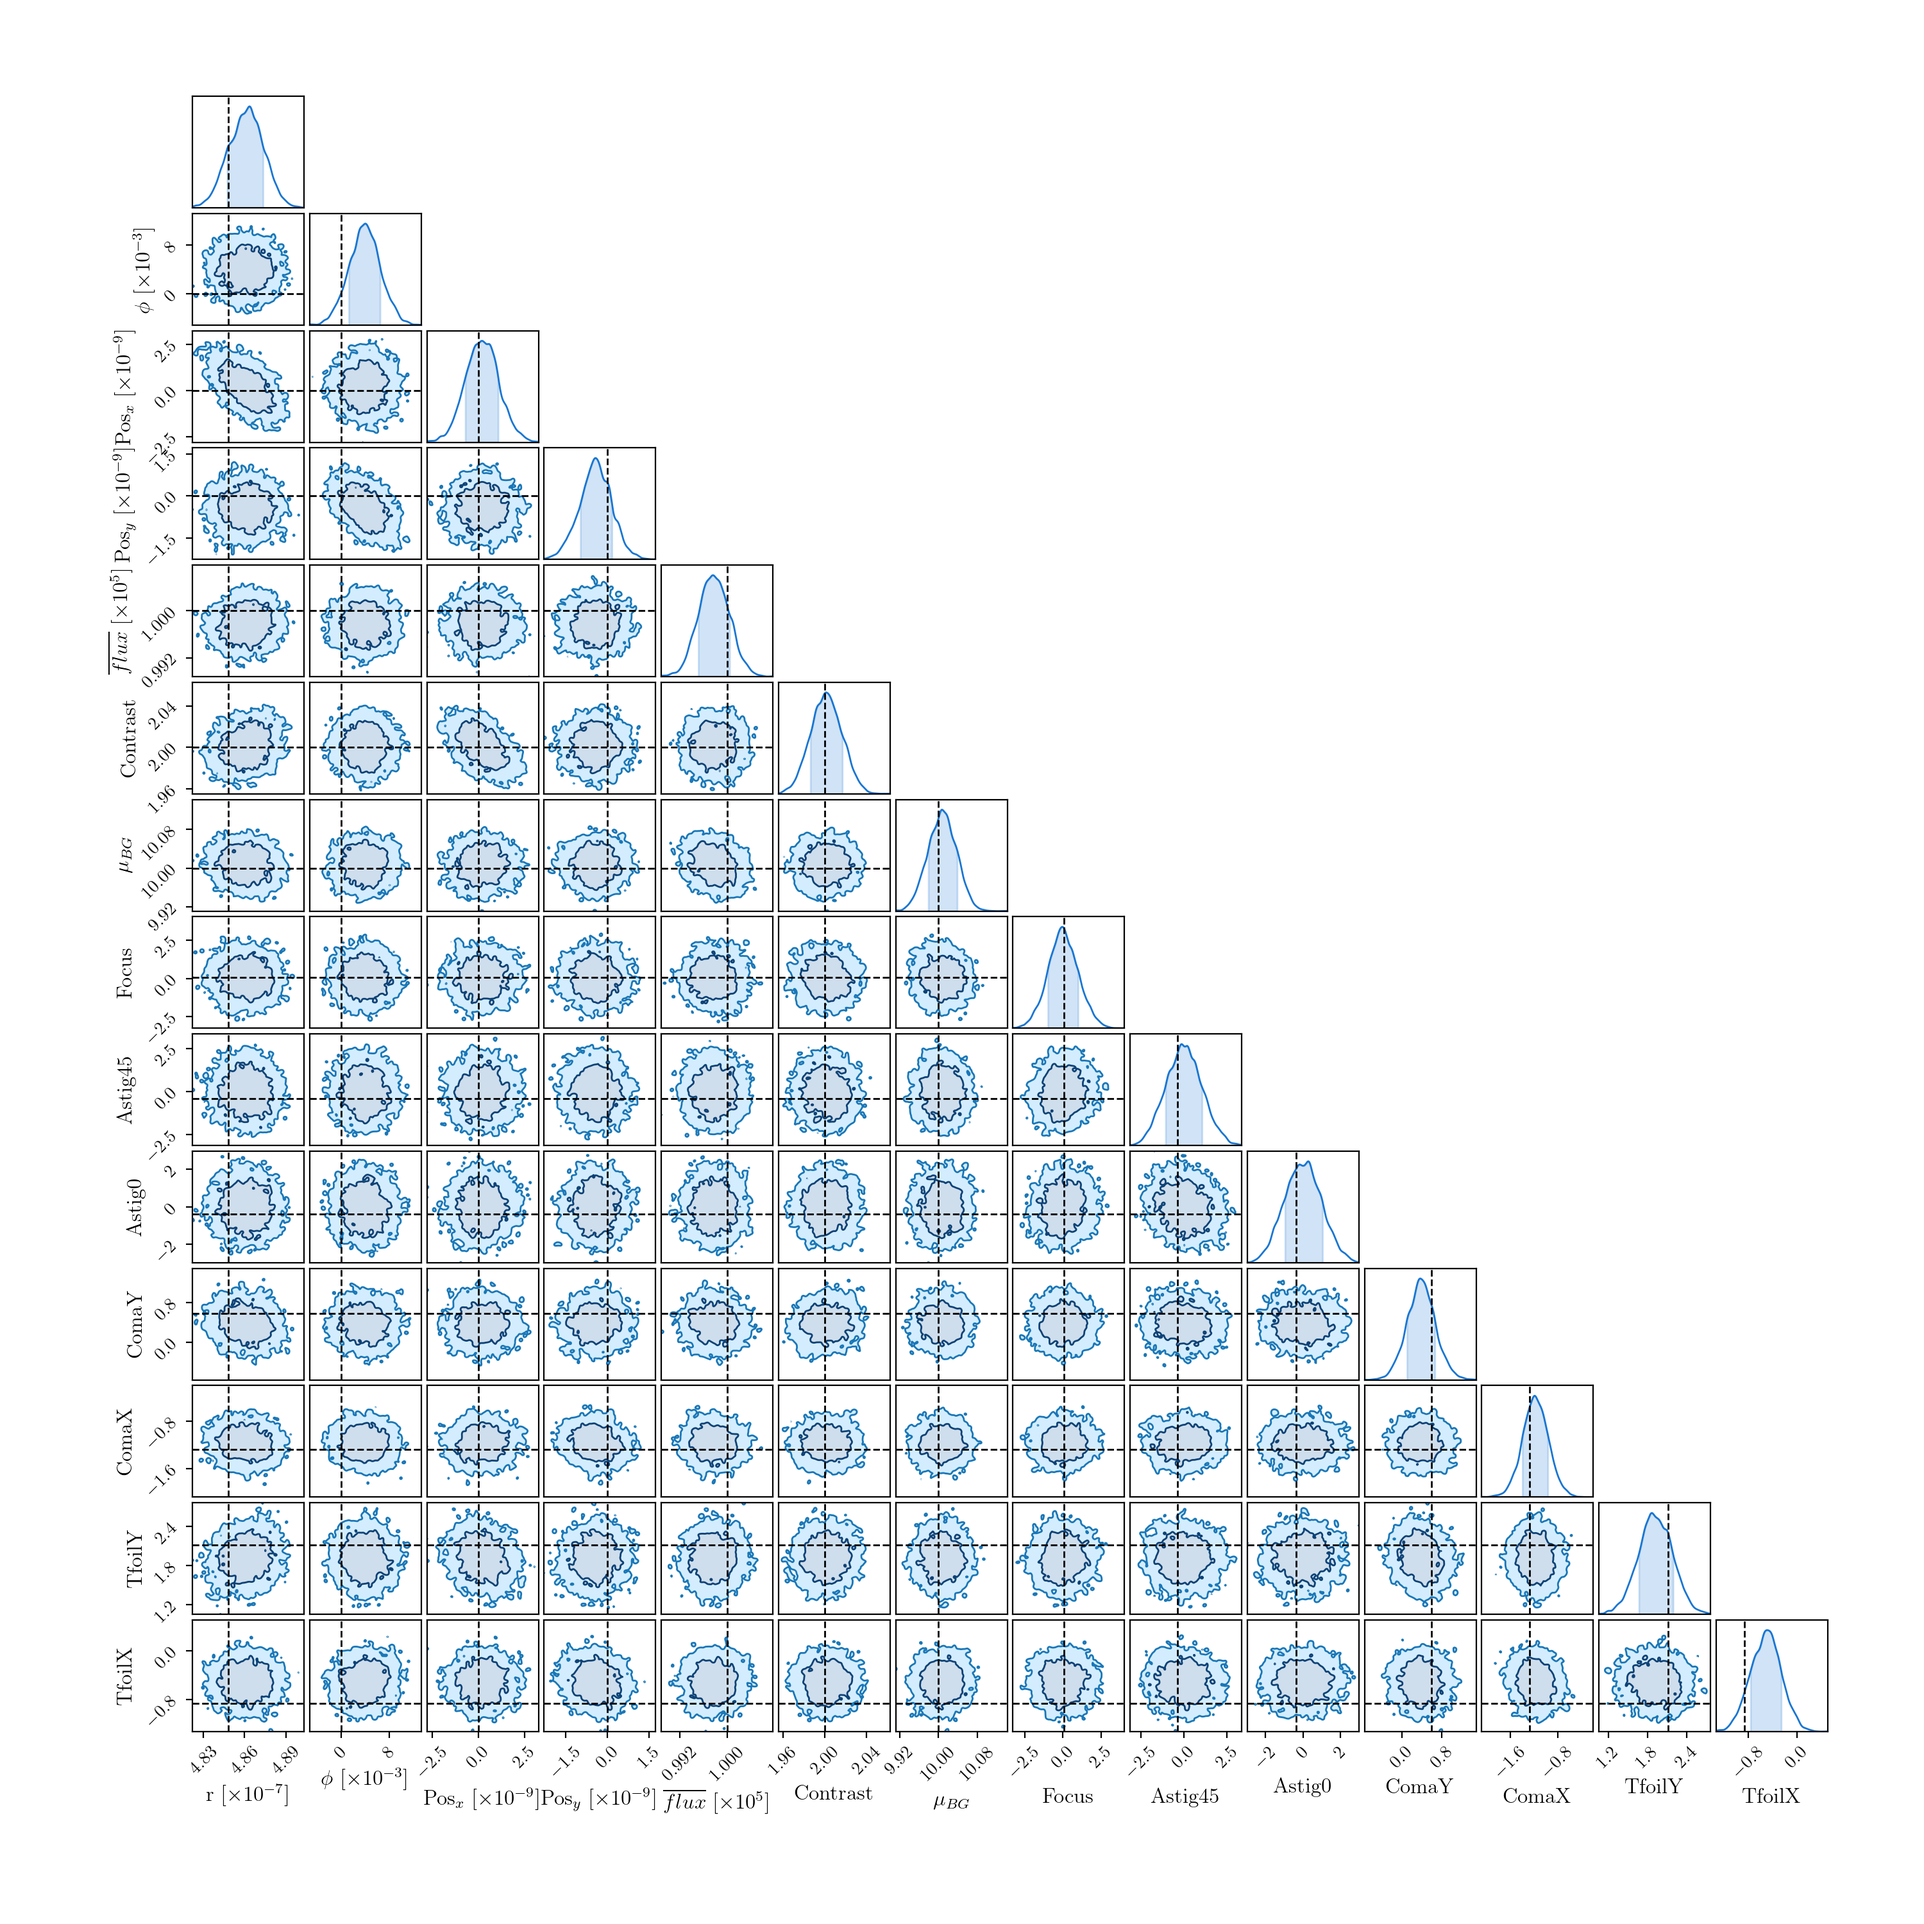
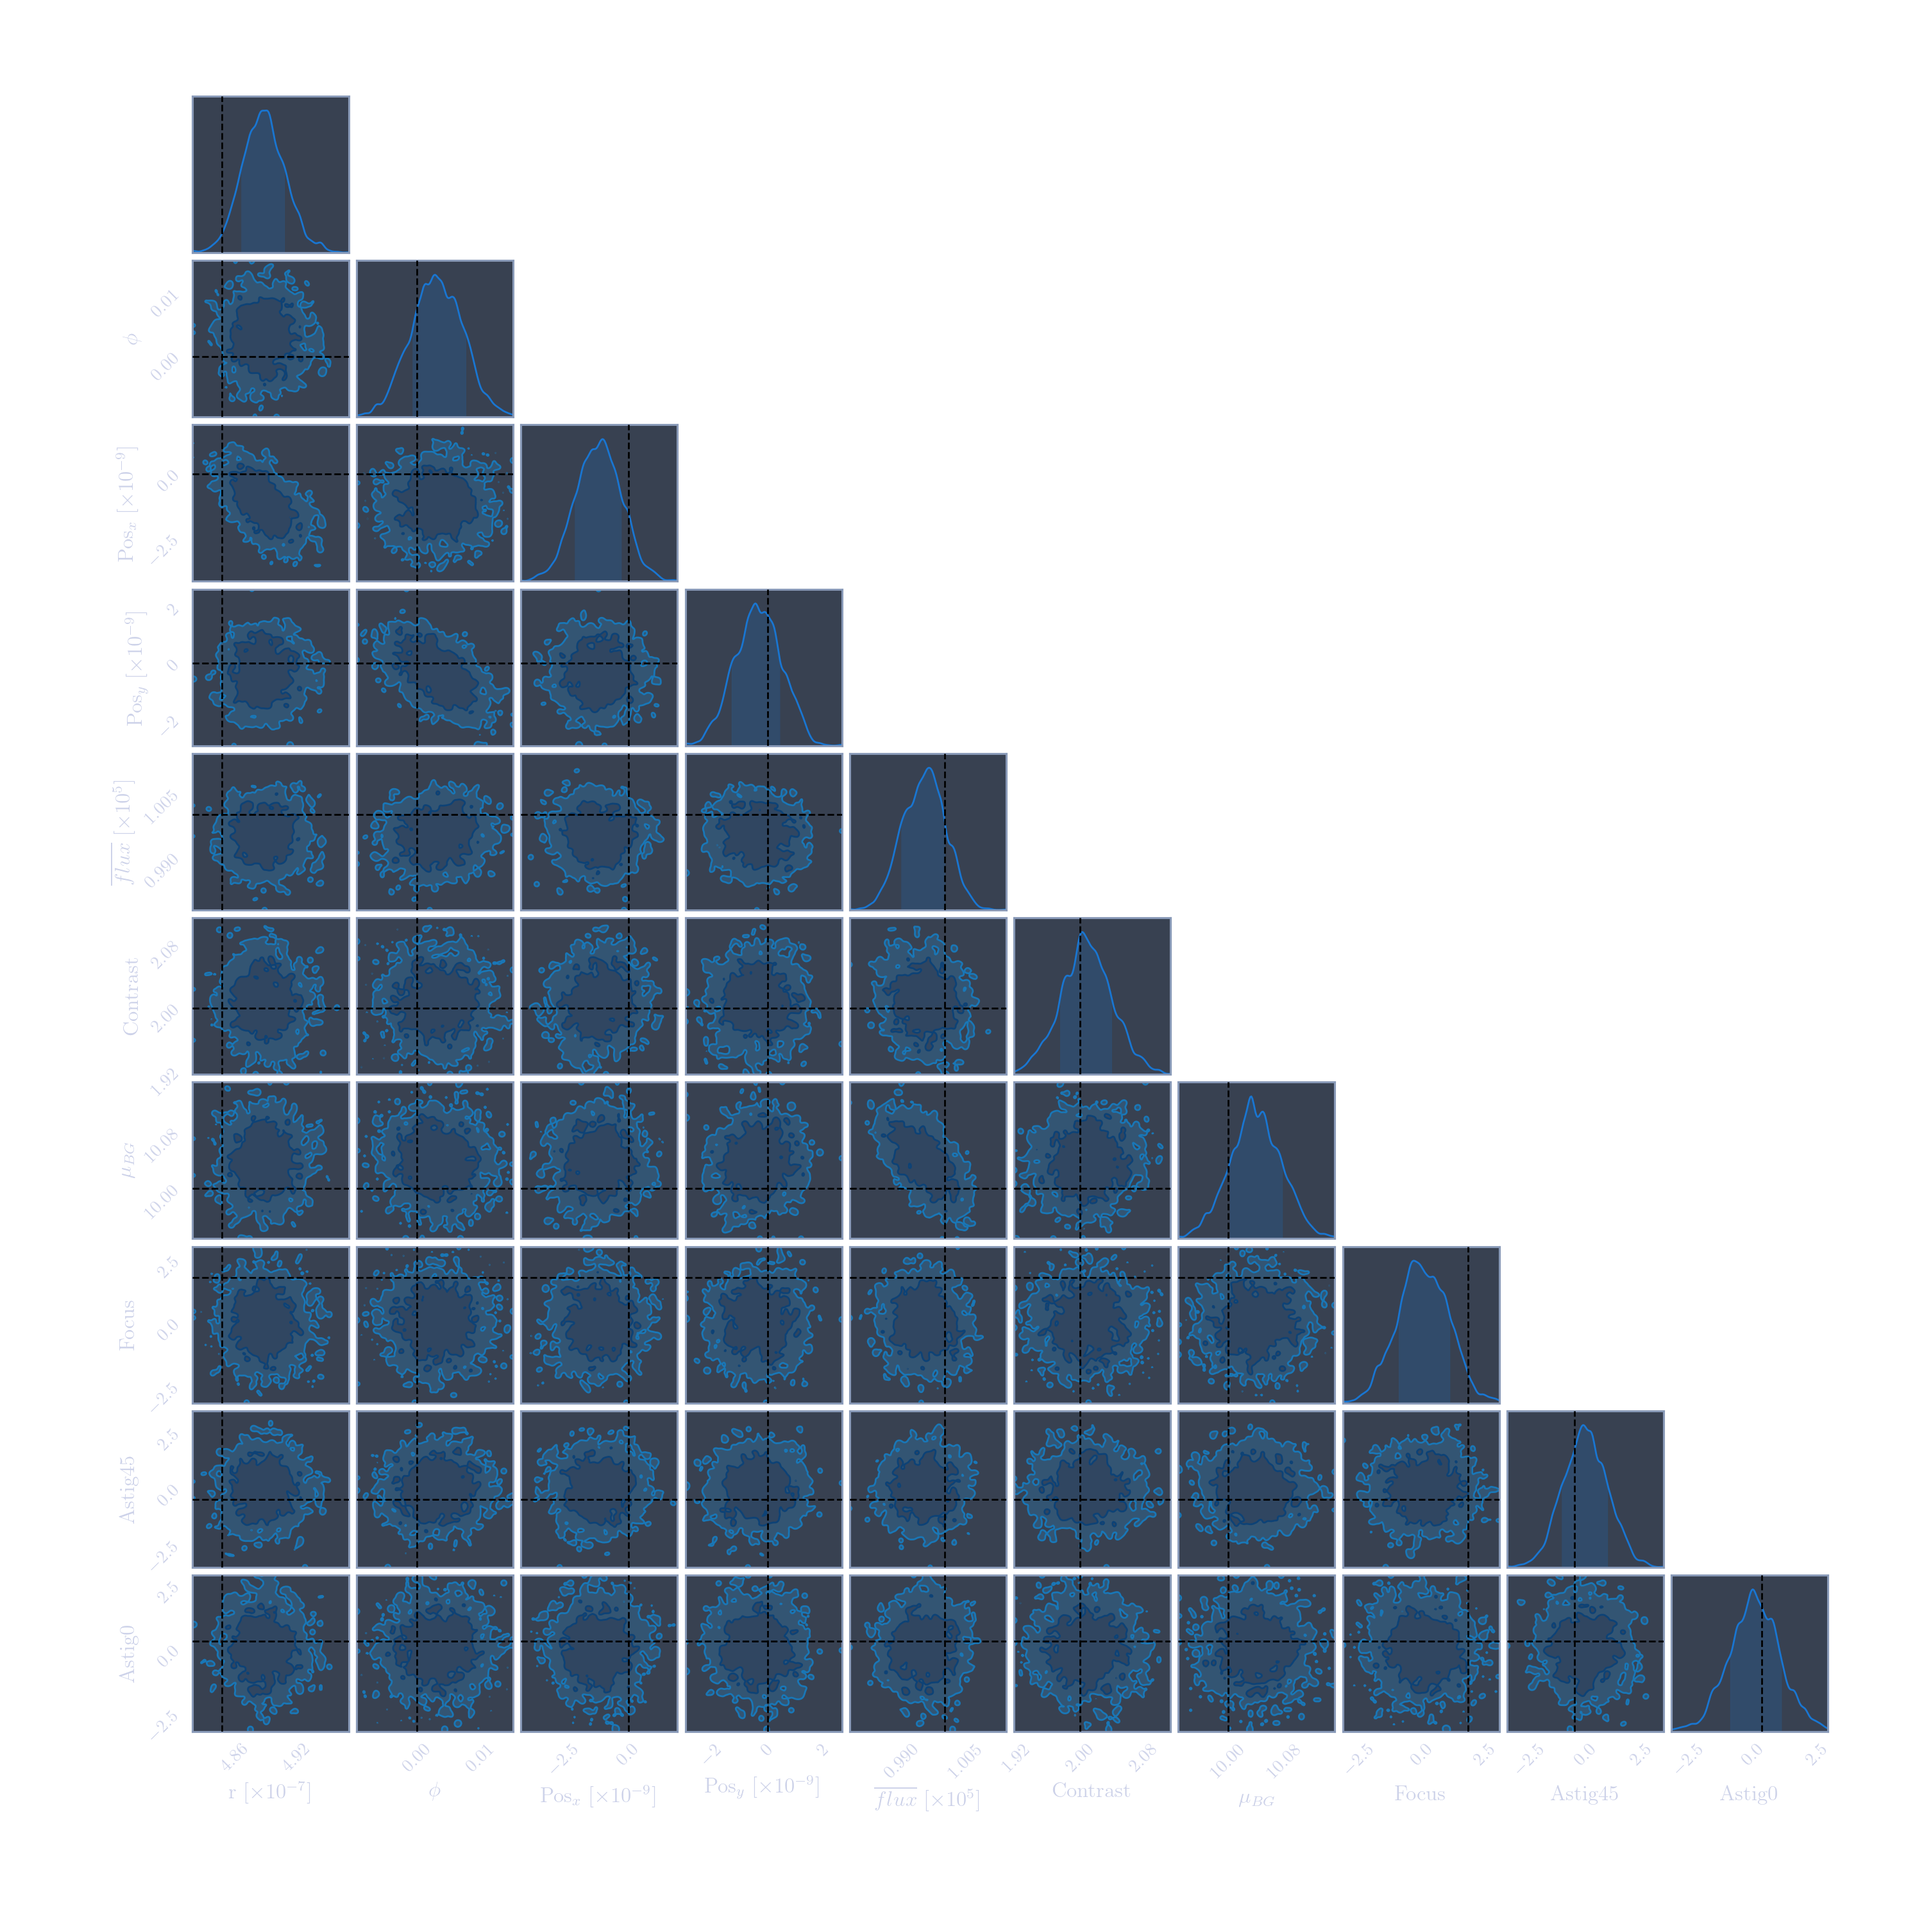
Small changes

diff --git a/hubble.py b/hubble.py
@@ -12,7 +12,7 @@ import matplotlib.pyplot as plt
 from jupyterthemes import jtplot
 from astropy.io import fits
 
-jtplot.style("oceans16")
+jtplot.style("oceans16", grid=False)
 warnings.filterwarnings("ignore")
 mpl.rcParams["figure.facecolor"] = 'w'
 mpl.rcParams["axes.facecolor"] = 'w'
@@ -153,6 +153,7 @@ class HubblePupil(dl.CompoundAperture):
                 softening = True)}
 
 
+# +
 with open("data/filters/HST_NICMOS1.F170M.dat") as filter_data:
     next(filter_data)
     nicmos_filter = np.array([
@@ -162,7 +163,7 @@ with open("data/filters/HST_NICMOS1.F170M.dat") as filter_data:
 nicmos_filter = nicmos_filter\
     .reshape(10, 80, 2)\
     .mean(axis=1)
-
+# -
 
 basis = dl.utils.zernike_basis(5, 128, outside=0.)
 target_coeffs = 1e-7 * jax.random.normal(jax.random.PRNGKey(0), [len(basis)])
@@ -212,8 +213,10 @@ path_dict = {'zern': ['layers', -2, 'coeffs'],
              'positions': ['positions'],
              'fluxes': ['fluxes']}
 paths = ['zern', 'x_offset', 'y_offset', 'positions', 'fluxes']
+# -
 
 filter_spec = hubble.get_filter_spec(paths, path_dict=path_dict)
+
 
 @eqx.filter_jit
 @eqx.filter_value_and_grad(arg=filter_spec)
@@ -221,8 +224,10 @@ def loss_func(model, target_psf):
     out = model.propagate()
     return np.sum((target_psf - out) ** 2)
 
+
 loss, grads = loss_func(hubble, target_psf)
 
+# +
 # Learning rates 
 # offset: 1e-3
 groups = [['x_offset', 'y_offset'], 'zern', 'positions', 'fluxes']
@@ -232,22 +237,23 @@ opt_state = optim.init(hubble)
 
 errors, grads_out, models_out = [], [], []
 
-with tqdm.tqdm(range(200), desc='Gradient Descent') as t:
-    for i in t: 
-        loss, grads = loss_func(hubble, target_psf)
-        updates, opt_state = optim.update(grads, opt_state)
+# +
+# with tqdm.tqdm(range(200), desc='Gradient Descent') as t:
+#     for i in t: 
+#         loss, grads = loss_func(hubble, target_psf)
+#         updates, opt_state = optim.update(grads, opt_state)
         
-        current_values = hubble.get_leaves(paths, path_dict=path_dict)
-        updated_values = updates.get_leaves(paths, path_dict=path_dict)
-        new_values = [current_values[i] + updated_values[i] \
-                      for i in range(len(current_values))]
-        hubble = hubble.update_leaves(paths, new_values, path_dict=path_dict)
+#         current_values = hubble.get_leaves(paths, path_dict=path_dict)
+#         updated_values = updates.get_leaves(paths, path_dict=path_dict)
+#         new_values = [current_values[i] + updated_values[i] \
+#                       for i in range(len(current_values))]
+#         hubble = hubble.update_leaves(paths, new_values, path_dict=path_dict)
         
-        models_out.append(hubble)
-        errors.append(loss)
-        grads_out.append(grads)
+#         models_out.append(hubble)
+#         errors.append(loss)
+#         grads_out.append(grads)
 
-        t.set_description("Loss: {:.3f}".format(loss*1e-3)) #
+#         t.set_description("Loss: {:.3f}".format(loss*1e-3)) #
 # -
 
 coordinates = dl.utils.get_pixel_coordinates(128, 2.4 / 128, 0., 0.)
@@ -367,26 +373,47 @@ spectrum = np.tile(nicmos_filter, (2, 1, 1)).at[:, :, 1].set(1.)
 wavelengths = spectrum[:, :, 0]
 weights = spectrum[:, :, 1]
 
-specturm = dl.CombinedSpectrum(wavelengths, weights)
+spectrum = dl.CombinedSpectrum(wavelengths, weights)
+
+differences = target_positions[:, 0] - target_positions[:, 1]
 
 position = np.mean(target_positions, axis=0)
-separation = np.sqrt(np.sum((target_positions[:, 0] - target_positions[:, 1]) ** 2))
+separation = np.sqrt(np.sum((differences) ** 2))
 field_angle = np.arctan2(differences[1], differences[0])
 flux_ratio = target_fluxes[0] / target_fluxes[1]
 flux = target_fluxes.sum()
 
-target = dl.BinarySource(position, flux, separation, field_angle, flux_ratio, spectrum, [True, True])
+target = dl.BinarySource(position, flux, separation, field_angle, flux_ratio, spectrum, [False, False])
 
-hubble_telescope = dl.Telescope
+true_position = np.zeros(2)
+true_separation, true_field_angle = dl.utils.arcsec2rad(1e-1), 0
+true_flux, true_flux_ratio = 1e5, 2
+resolved = [False, False]
+binary_source = dl.BinarySource(true_position, true_flux, true_separation, 
+                             true_field_angle, true_flux_ratio, 
+                             spectrum, resolved, name="Binary")
 
-help(dl.Optics)
+hubble_layers = [
+    dl.CreateWavefront(128, 2.4, wavefront_type='Angular'),
+    dl.TiltWavefront(),
+    dl.CompoundAperture({"Hubble": HubblePupil(), "Nicmos": NicmosColdMask(0., 0.)}),
+    dl.NormaliseWavefront(),
+    dl.ApplyBasisOPD(basis, target_coeffs),
+    dl.AngularMFT(dl.utils.arcsec2rad(0.043), 64)
+]
 
-help(dl.Detector)
+detector_layers = [
+    dl.AddConstant(10.),
+    dl.ApplyPixelResponse(0.000005 * jax.random.normal(jax.random.PRNGKey(0), (64, 64)))
+]
 
-help(dl.Telescope)
+hubble_telescope = dl.Telescope(
+    dl.Optics(hubble_layers),
+    dl.Scene([target]),
+#    dl.Detector(detector_layers),
+#    filter=dl.Filter(nicmos_filter[:, 0], nicmos_filter[:, 1])
+)
 
-dl.Filter(nicmos_filter[:, 0], nicmos_filter[:, 1])
-
-help(dl.Filter)
+plt.imshow(hubble_telescope.model_image()[2])
 
 

diff --git a/hmc.py b/hmc.py
@@ -18,7 +18,7 @@ plt.rcParams['image.cmap'] = 'inferno'
 plt.rcParams["font.family"] = 'serif'
 plt.rcParams["text.usetex"] = 'true'
 plt.rcParams['figure.dpi'] = 120
-jtplot.style("oceans16")
+jtplot.style("oceans16", grid=False)
 
 
 class NicmosColdMask(dl.CompoundAperture):
@@ -153,10 +153,22 @@ class HubblePupil(dl.CompoundAperture):
                 softening = True)}
 
 
-nwavels = 3
-wavels = np.linspace(400e-9, 500e-9, nwavels)
-wavelengths = [wavels, wavels]
-weights = [np.ones(nwavels), np.linspace(0.5, 1, nwavels)]
+with open("data/filters/HST_NICMOS1.F170M.dat") as filter_data:
+    next(filter_data)
+    nicmos_filter = np.array([
+            [float(entry) for entry in line.strip().split(" ")] 
+                for line in filter_data])
+
+nicmos_filter = nicmos_filter\
+    .reshape(10, 80, 2)\
+    .mean(axis=1)\
+    .at[:, 0]\
+    .mul(1e-9)
+
+dl_nicmos_filter = dl.Filter(nicmos_filter[:, 0], nicmos_filter[:, 1])
+
+wavelengths = np.tile(nicmos_filter[:, 0], (2, 1))
+weights = np.ones((2,) + nicmos_filter[:, 0].shape)
 combined_spectrum = dl.CombinedSpectrum(wavelengths, weights)
 
 # Create Binary Source,
@@ -170,15 +182,15 @@ binary_source = dl.BinarySource(true_position, true_flux, true_separation,
 
 # Construct Optical system
 wf_npix = 128
-det_npix = 128
+det_npix = 64
 
 # Zernike aberrations,
 basis = dl.utils.zernike_basis(6, npix=wf_npix)[3:] * 1e-9
 true_coeffs = jr.normal(jr.PRNGKey(0), (basis.shape[0],))
 
 # Construct optical layers,
-true_pixel_scale = dl.utils.arcsec2rad(5e-3)
-layers = [dl.CreateWavefront(wf_npix, 1),
+true_pixel_scale = dl.utils.arcsec2rad(0.043)
+layers = [dl.CreateWavefront(wf_npix, 2.4, wavefront_type="Angular"),
           dl.TiltWavefront(),
           dl.CompoundAperture({"Hubble": HubblePupil(), "Nicmos": NicmosColdMask(0., 0.)}),
           dl.ApplyBasisOPD(basis, true_coeffs),
@@ -196,6 +208,7 @@ detector_layers = [
 # Construct Telescope,
 telescope = dl.Telescope(dl.Optics(layers), 
                          dl.Scene([binary_source]),
+                         filter=dl_nicmos_filter,
                          detector=dl.Detector(detector_layers))
 
 # +
@@ -203,23 +216,23 @@ telescope = dl.Telescope(dl.Optics(layers),
 psf = telescope.model_scene()
 psf_photon = jr.poisson(jr.PRNGKey(0), psf)
 bg_noise = true_bg + jr.normal(jr.PRNGKey(0), psf_photon.shape)
-image = psf_photon+bg_noise
+image = psf_photon + bg_noise
 data = image.flatten()
 
 plt.figure(figsize=(15, 4))
 plt.subplot(1, 3, 1)
 plt.title("PSF")
-plt.imshow(psf)
+plt.imshow(psf ** 0.25)
 plt.colorbar()
 
 plt.subplot(1, 3, 2),
 plt.title("PSF + Photon")
-plt.imshow(psf_photon)
+plt.imshow(psf_photon ** 0.25)
 plt.colorbar()
 
 plt.subplot(1, 3, 3)
 plt.title("Data")
-plt.imshow(image)
+plt.imshow(image ** 0.25)
 plt.colorbar()
 plt.show()
 # -
@@ -237,6 +250,10 @@ path_dict = {
     'FF'     : ['detector', 'layers',  'ApplyPixelResponse', 'pixel_response' ]
     }
 
+true_separation
+
+true_pixel_scale
+
 
 def psf_model(data, model, path_dict=None):
     # Define empty paths and values lists to append to,
@@ -248,8 +265,8 @@ def psf_model(data, model, path_dict=None):
     paths.append('pos'), values.append(position)
     
     # Separation
-    sep_min = true_separation - 10*true_pixel_scale
-    sep_max = true_separation + 10*true_pixel_scale
+    sep_min = true_separation - 2 * true_pixel_scale
+    sep_max = true_separation + 2 * true_pixel_scale
     separation_log = npy.sample("log_separation", dist.Uniform(np.log10(sep_min), np.log10(sep_max)))
     separation     = npy.deterministic('separation', 10**(separation_log))
     paths.append('sep'), values.append(separation)
@@ -294,7 +311,7 @@ def psf_model(data, model, path_dict=None):
 sampler = npy.infer.MCMC(
     npy.infer.NUTS(psf_model),    
     num_warmup=1000,
-    num_samples=2000,
+    num_samples=1000,
     num_chains=jax.device_count(),
     progress_bar=True)
 
@@ -335,8 +352,7 @@ def make_dict(dict_in, truth=False):
     order = ['r', r'$\phi$', 'Pos$_x$', 
              'Pos$_y$', r'$\overline{flux}$', 
              'Contrast', r'$\mu_{BG}$', 'Focus', 
-             'Astig45', 'Astig0', 'ComaY', 'ComaX', 
-             'TfoilY', 'TfoilX']
+             'Astig45', 'Astig0']
     
     new_dict = {}
     for key in order:
@@ -351,6 +367,8 @@ truth_dict = {'bg':          true_bg,          'coeffs':   true_coeffs,
               'separation':  true_separation,  'bg_var':   1.,
               'pixel_scale': true_pixel_scale}
 
+chain_dict
+
 truth_dict_in = make_dict(truth_dict, truth=True)
 chain_dict = make_dict(values_out)
 chain = cc.ChainConsumer()
@@ -360,3 +378,5 @@ chain.configure(serif=True, shade=True, bar_shade=True,
 fig = chain.plotter.plot(truth=truth_dict_in)
 fig.set_size_inches((15,15))
 fig.savefig('hmc', dpi=200, facecolor='w')
+
+

diff --git a/.ipynb_checkpoints/hubble-checkpoint.py b/.ipynb_checkpoints/hubble-checkpoint.py
@@ -12,7 +12,7 @@ import matplotlib.pyplot as plt
 from jupyterthemes import jtplot
 from astropy.io import fits
 
-jtplot.style("oceans16")
+jtplot.style("oceans16", grid=False)
 warnings.filterwarnings("ignore")
 mpl.rcParams["figure.facecolor"] = 'w'
 mpl.rcParams["axes.facecolor"] = 'w'
@@ -226,7 +226,7 @@ loss, grads = loss_func(hubble, target_psf)
 # Learning rates 
 # offset: 1e-3
 groups = [['x_offset', 'y_offset'], 'zern', 'positions', 'fluxes']
-optimisers = [optax.adam(0.), optax.adam(0.), optax.adam(5e-7), optax.adam(0.)]
+optimisers = [optax.adam(0.), optax.adam(0.), optax.adam(1e-7), optax.adam(0.)]
 optim = hubble.get_optimiser(groups, optimisers, path_dict=path_dict)
 opt_state = optim.init(hubble)
 
@@ -364,5 +364,42 @@ plt.plot(flux_resid[1])
 plt.show()
 # -
 spectrum = np.tile(nicmos_filter, (2, 1, 1)).at[:, :, 1].set(1.)
+wavelengths = spectrum[:, :, 0]
+weights = spectrum[:, :, 1]
 
-dl.CombinedSpectrum()
+spectrum = dl.CombinedSpectrum(wavelengths, weights)
+
+differences = target_positions[:, 0] - target_positions[:, 1]
+
+position = np.mean(target_positions, axis=0)
+separation = np.sqrt(np.sum((differences) ** 2))
+field_angle = np.arctan2(differences[1], differences[0])
+flux_ratio = target_fluxes[0] / target_fluxes[1]
+flux = target_fluxes.sum()
+
+target = dl.BinarySource(position, flux, separation, field_angle, flux_ratio, spectrum, [True, True])
+
+hubble_layers = [
+    dl.CreateWavefront(128, 2.4, wavefront_type='Angular'),
+    dl.TiltWavefront(),
+    dl.CompoundAperture({"Hubble": HubblePupil(), "Nicmos": NicmosColdMask(x_offset, y_offset)}),
+    dl.NormaliseWavefront(),
+    dl.ApplyBasisOPD(basis, target_coeffs),
+    dl.AngularMFT(dl.utils.arcsec2rad(0.043), 64)
+]
+
+detector_layers = [
+    dl.AddConstant(10.),
+    dl.ApplyPixelResponse(0.000005 * jax.random.normal(jax.random.PRNGKey(0), (64, 64)))
+]
+
+hubble_telescope = dl.Telescope(
+    dl.Optics(hubble_layers),
+    dl.Scene([target]),
+#    dl.Detector(detector_layers),
+#    filter=dl.Filter(nicmos_filter[:, 0], nicmos_filter[:, 1])
+)
+
+plt.imshow(hubble_telescope.model_image()[2])
+
+
